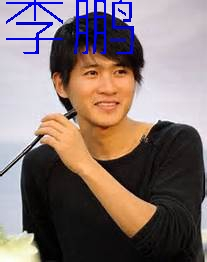
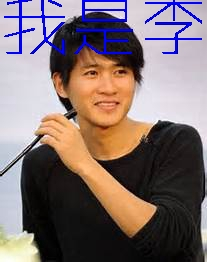
~

Changed region(s): [[0.3478, 0.0, 0.6667, 0.2137], [0.0, 0.0, 0.3188, 0.2137], [0.6957, 0.0, 0.9855, 0.2137]]

diff --git a/app.go b/app.go
@@ -14,7 +14,7 @@ import (
 
 func main() {
 
-	textimg:=drawing.DrawString(300,200,"李鹏","static/张海山锐线体简1.0.ttf",font.HintingNone,50,color.RGBA{0,0,255,255},100,0,0)
+	textimg:=drawing.DrawString(300,200,"我是李鹏","static/张海山锐线体简1.0.ttf",font.HintingNone,50,color.RGBA{0,0,255,255},100,0,0)
 
 	f,err:=os.Open("img/hh.jpeg")
 	defer f.Close()

diff --git a/README.md b/README.md
@@ -17,7 +17,7 @@ g.DrawPicture(textimg,[2]int{0,0})
 + 保存
 ```
 bs:=g.SavePng()
-
+ioutil.WriteFile("img/result.jpg",bw,os.ModePerm)
 ```
 
 ## 效果
